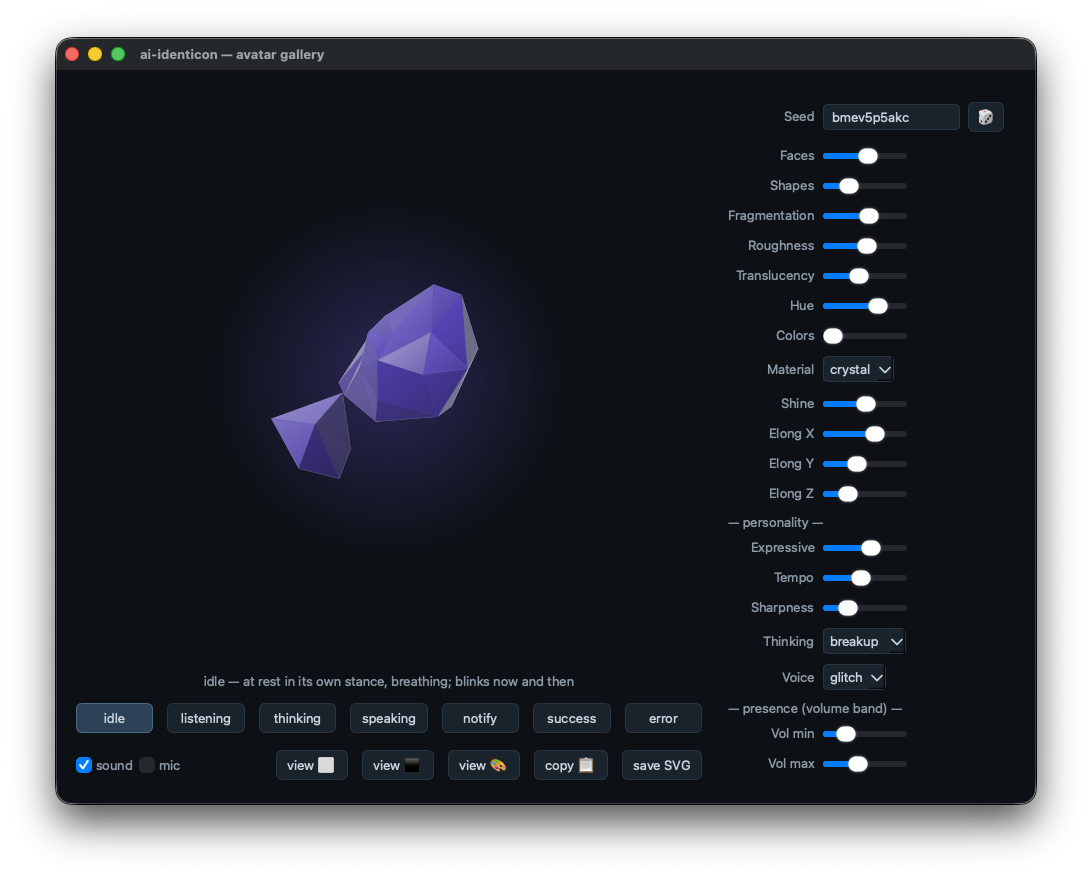
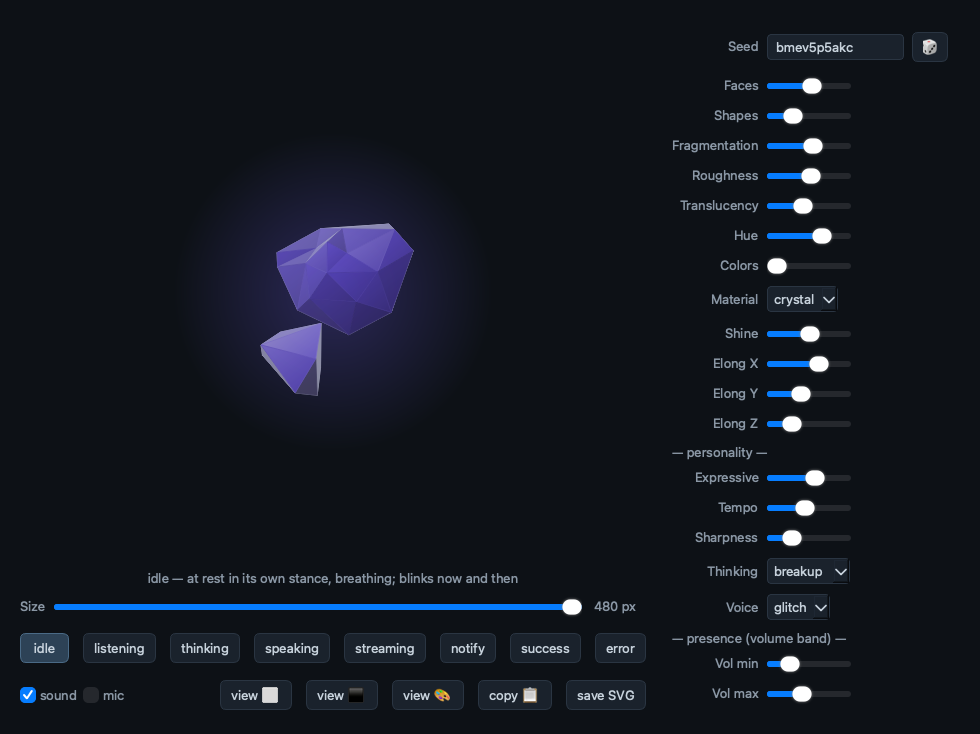
docs: generate the gallery screenshot instead of hand-capturing it
The README's hero shot was captured by hand, so it went stale the moment
the UI changed: it still showed seven state buttons and no Size slider,
months after both changed. Same failure the state stills had, same fix —
scripts/render_gallery_shot.py renders it, so refreshing it is a command.

Two departures from the other render scripts, both deliberate:

- It does NOT use QT_QPA_PLATFORM=offscreen. That backend has no "Sans
  Serif" and substitutes fonts, so every label and button in the shot
  would differ from what a user sees. The cost is that a real window
  flashes on screen while it grabs.
- It sets the Size slider to 480 and drops focus from the seed box. The
  360 default leaves the left column half empty, and the focused seed
  field blinks a text caret into the middle of the picture.

Captures widget content, so unlike the old shot there is no title bar or
drop shadow; grab() cannot produce window chrome. Take it by hand if the
macOS frame is wanted.

diff --git a/scripts/render_gallery_shot.py b/scripts/render_gallery_shot.py
@@ -1,0 +1,66 @@
+#!/usr/bin/env python
+"""Render the README's gallery screenshot (docs/gallery.png).
+
+The original was captured by hand, which is why it went stale the moment the
+gallery grew a control. This renders the same window programmatically so it
+can be refreshed whenever the UI changes.
+
+Deliberately NOT run under QT_QPA_PLATFORM=offscreen, unlike the other render
+scripts here: the offscreen backend substitutes fonts (it has no "Sans Serif"),
+so labels and buttons would not look like what a user actually sees. That means
+this briefly flashes a real window on screen while it grabs — the cost of the
+shot being honest.
+
+It captures the widget's own content, so there is no window title bar or drop
+shadow. If you want the macOS chrome, take the screenshot by hand instead.
+
+Needs the Qt extra:  pip install -e ".[qt]"
+Run from the repo root:  python scripts/render_gallery_shot.py
+"""
+
+from __future__ import annotations
+
+import os
+import sys
+import time
+
+from PySide6.QtWidgets import QApplication
+
+sys.path.insert(0, os.path.join(os.path.dirname(__file__), "..", "src"))
+from ai_identicon.gallery import Demo          # noqa: E402
+from ai_identicon.model import AvatarState     # noqa: E402
+
+SEED = "bmev5p5akc"
+WINDOW = (980, 660)    # a floor; the genome panel makes the real window taller
+ORB_PX = 480           # fill the left column — the 360 default leaves it empty
+SETTLE_SECONDS = 2.0   # let the cluster settle and the orb reach a good pose
+
+
+def main() -> int:
+    app = QApplication(sys.argv[:1])
+    demo = Demo(SEED)
+    demo.resize(*WINDOW)
+    demo.size_slider.setValue(ORB_PX)
+    demo.show()
+    # the seed box takes focus on open and its caret blinks into the shot
+    demo.seed_edit.clearFocus()
+
+    # The orb animates off its own QTimer, so pump the event loop in real time
+    # rather than stepping the model by hand — this shot should be the app as
+    # it actually runs, not a synthetic frame.
+    demo._go(AvatarState.IDLE)
+    end = time.monotonic() + SETTLE_SECONDS
+    while time.monotonic() < end:
+        app.processEvents()
+        time.sleep(0.01)
+
+    out = os.path.join(os.path.dirname(__file__), "..", "docs", "gallery.png")
+    shot = demo.grab()
+    shot.save(out, "PNG")
+    print(f"  {os.path.relpath(out)}  {shot.width()}x{shot.height()}  "
+          f"{os.path.getsize(out) // 1024} KB")
+    return 0
+
+
+if __name__ == "__main__":
+    raise SystemExit(main())
